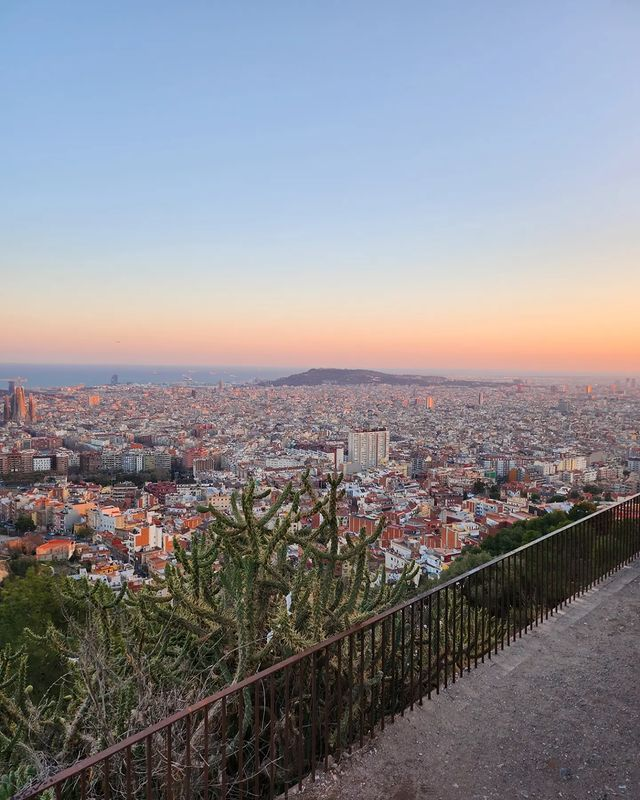
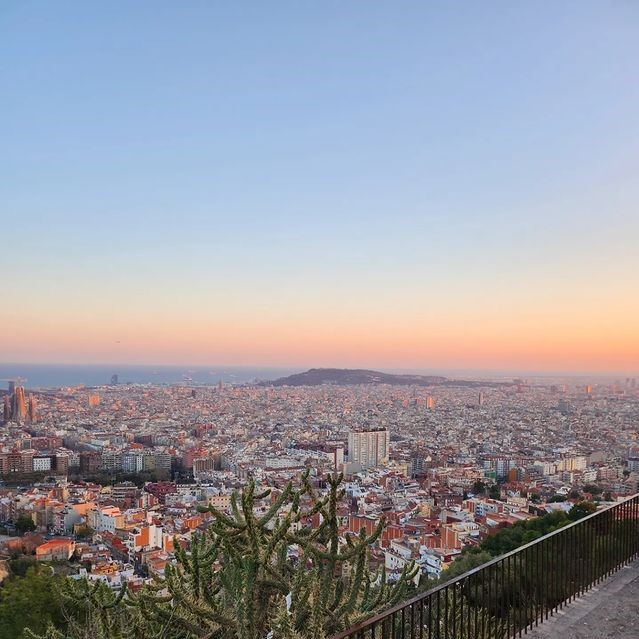
modificacion img

diff --git a/estilos.css b/estilos.css
@@ -94,8 +94,11 @@ a {
     justify-content: center;
     gap: 20px;
     align-items: center;
+    
 }
-
+img{
+    height: 200px;
+}
 .video-container{
     padding: 10px;
     gap: 5px;
